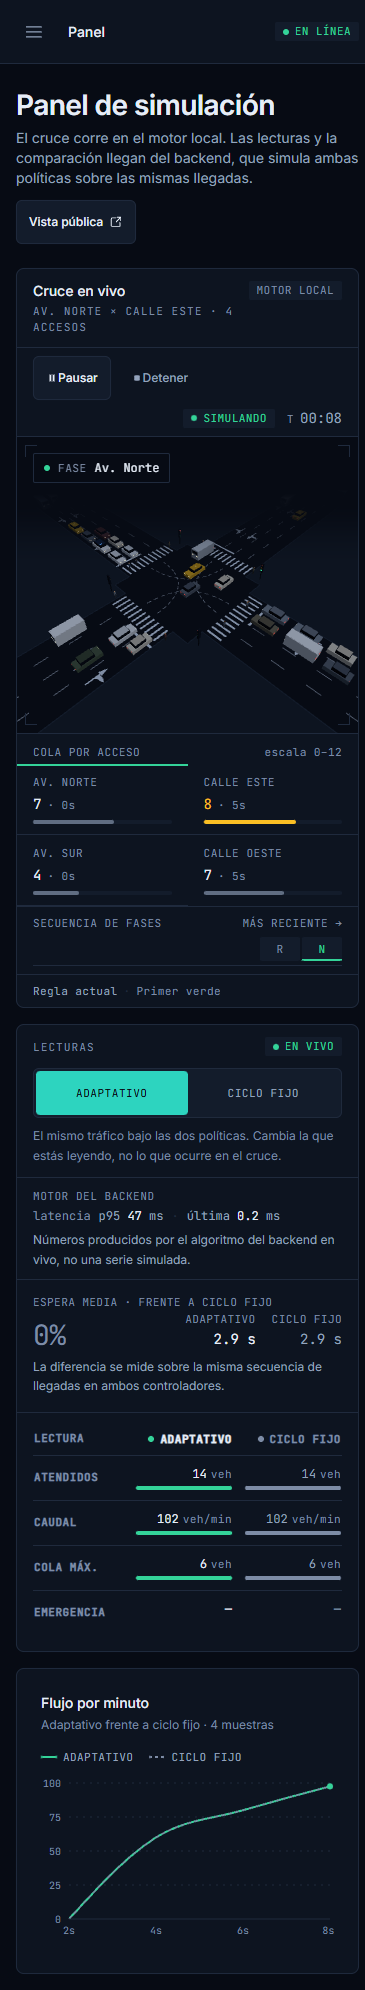
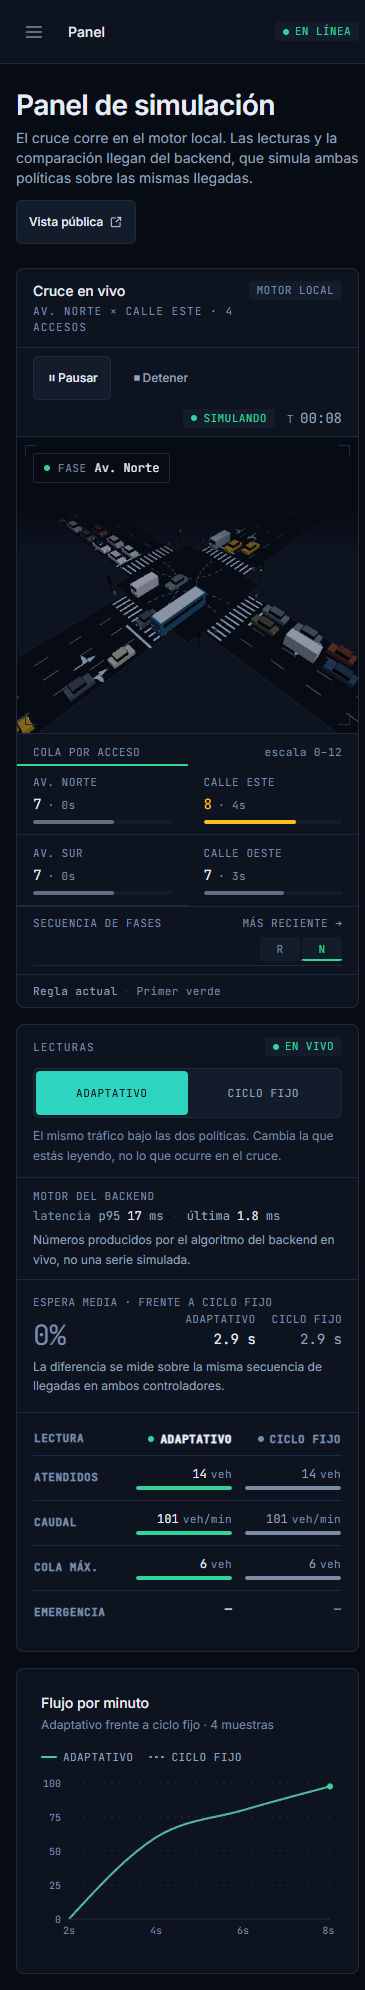
docs: record the live deployment and control-room sidebar
Update the roadmap, handoff and README with the Vercel/Railway URLs, the sidebar redesign and the production Socket.io trailing-slash fix. Refresh the dashboard screenshots against a real run.

diff --git a/PLAN.md b/PLAN.md
@@ -2,17 +2,17 @@
 ## Implementation Roadmap
 
 > Living document. Update sprint status as work progresses.
-> Current focus: **Phase 6 — Polish**, the visual pass, in progress. Phases 1–4
-> are closed and verified (frontend, backend, algorithm and realtime all
-> shipped; the dashboard reads the real streamed metrics). Sprint 1-H is closed.
-> The visual polish the user asked for has started — dotted turn guides and a
-> continental zebra (`70c9016`), a strategy comparison rack and a live latency
-> readout (`1c9375e`), a landing redesigned as a three-move argument (`5df96ac`),
-> and a **full dashboard rework** that moves transport onto the canvas, instruments
-> the junction with a phase tape and queue bank, and rebuilds the metrics column
-> around the wait comparison (`271b44a`, `7b64752`, `79cc111`; see the Phase 6
-> status block). Still open: the user's browser check at 375px/1440px, reduced
-> motion and keyboard.
+> Current focus: **Phase 6 — closed except the demo video.** Phases 1–6 are
+> closed and verified (frontend, backend, algorithm, realtime, persistence and
+> deploy all shipped). The console is live at
+> `https://urbansync-sim-frontend.vercel.app` against
+> `https://urbansync-sim-production.up.railway.app`. The visual polish includes
+> dotted turn guides and a continental zebra (`70c9016`), a strategy comparison
+> rack and a live latency readout (`1c9375e`), a landing redesigned as a
+> three-move argument (`5df96ac`), a full dashboard rework (`271b44a`, `7b64752`,
+> `79cc111`) and a **sidebar redesigned around a control-room mast** (`55e8f8e`;
+> see the Phase 6 status block). Still open: record the 2-minute demo and rotate
+> the Postgres password exposed during setup.
 
 ---
 
@@ -25,7 +25,7 @@
 | 3 | Simulation Algorithm | ✅ Complete | Adaptive logic running in backend |
 | 4 | Real-time Integration | ✅ Complete | Frontend ↔ Backend live via Socket.io |
 | 5 | Persistence + Reports | ✅ Complete | Runs stored per user, CSV/PDF exportable |
-| 6 | Polish + Deploy | 🟡 In progress | Visual polish started; deploy pending |
+| 6 | Polish + Deploy | 🟡 Complete | Live on Vercel + Railway; demo video pending |
 
 ### Sprint 1-A status — ✅ complete
 
@@ -1087,13 +1087,31 @@ recording would need the hub to keep the samples it currently streams past.
 
 **Goal:** Live URLs, documented, presentable to the professor.
 
-### Phase 6 status — ✅ polish closed; deployment configured, execution pending
+### Phase 6 status — ✅ closed; live on Vercel and Railway
 
-The **visual polish the user asked for** is closed, and the deploy configuration
-is now in the repository: `frontend/vercel.json`, `backend/railway.json`, and a
-`backend/Dockerfile` that migrates and seeds on boot. Creating the Vercel and
-Railway services, setting their secrets, and smoke-testing the public URLs are
-the only deploy steps left, and they need platform credentials.
+The **visual polish the user asked for** is closed and the project is deployed.
+`frontend/vercel.json`, `backend/railway.json` and a `backend/Dockerfile` that
+migrates and seeds on boot are in the repository; Railway runs the backend with
+its PostgreSQL service, and Vercel runs the Vite frontend with the Railway API
+as `VITE_API_URL`.
+
+**Live deployment (verified 2026-11-09):**
+
+- Frontend: `https://urbansync-sim-frontend.vercel.app` — returns 200 and serves
+  the sidebar redesign (`55e8f8e`).
+- Backend: `https://urbansync-sim-production.up.railway.app/health` —
+  `{"status":"ok","db":"ok"}`.
+- CORS: `CORS_ORIGINS` uses the Vercel origin; Railway's Vercel preview regex
+  remains in `app/core/config.py`.
+- Socket.io: production was returning `44//simulation,"Unable to connect"` because
+  the configured `VITE_API_URL` ended in `/` and the client joined it to
+  `//simulation`. `5bf98cd` normalises the base URL; the deployed console now
+  shows `EN LÍNEA`/`EN VIVO` and receives real ticks. The full flow was verified
+  on 2026-11-09.
+
+**Still open:** recording the 2-minute demo and rotating the Postgres password
+that was pasted into the setup chat. The rotation must update Railway's
+`DATABASE_URL` before the next deploy is trusted.
 
 The first polish slice is **committed** (`70c9016`). It is a renderer-only change
 — `core/` is untouched, so no engine gate had to be re-run.
@@ -1217,6 +1235,24 @@ at 375px while the static desktop column is untouched. Verified headlessly at
 1440px and 375px (desktop/mobile, idle/running/paused): no overflow, no console
 errors, and a focused link inside the closed drawer is refused.
 
+**Sidebar redesign (`55e8f8e`):** the navigation no longer reads as a generic pill
+list. The column is 272px wide, with a two-line wordmark (Inter product name plus
+a mono teal `SIM` and a `Control de cruce` method line), a `CONSOLA` group label,
+and three destinations on a 1px mast. Each icon sits in a 28px circular node on
+that line; the active destination carries the raised row, the teal node border and
+icon, and Primary Text, so the state survives a colour-only failure. The mast
+continues past the last destination into a system plate that states
+`Sin modelo entrenado`, a four-segment rule meter and `Cuatro reglas rastreables`.
+`DESIGN.md` §Navigation and the sticky-sidebar note were updated to match.
+
+Verified: `npm run build`, `typecheck` and `oxlint` clear (only the pre-existing
+`scripts/` warnings), `prettier --check` clean on the changed file, and
+`impeccable detect` returns `[]`. Headless captures at 1440px, 375px and 320px show
+no horizontal overflow or console errors; the closed drawer keeps `inert`,
+`aria-hidden` and a refused focus target, and the open drawer keeps the 44px
+touch target. `docs/screenshots/dashboard.png` and `dashboard-mobile.png` were
+refreshed against the local SQLite backend.
+
 **Deployment support (`622928a`):** the Docker CMD runs `alembic upgrade head`
 and the idempotent seed on Railway's `$PORT`; `railway.json` declares the
 `/health` check and restart policy; `vercel.json` resolves the SPA fallback and
@@ -1226,7 +1262,8 @@ the asyncpg driver, and `create_app` now actually refuses the placeholder
 added (100 backend tests in green).
 
 **Frontend polish (requested, now closed):** the dashboard has been rebuilt as a
-console. Remaining work in this phase:
+console and the sidebar now carries the control-room mast. Remaining work in this
+phase:
 
 - [x] **Dashboard rework** — transport on the canvas bezel (`TransportControls`),
       phase tape + queue bank + idle chip instrumented on the canvas, metrics
@@ -1245,10 +1282,12 @@ console. Remaining work in this phase:
 - [x] Final `impeccable detect` pass — `[]`; headless capture and focus probes clean
 - [x] Environment variables documented in `.env.example` (SQLite and platform keys)
 - [x] `README.md` complete: setup, usage, routes, deployment, screenshots
-- [ ] Deploy frontend → Vercel (config ready in `frontend/vercel.json`; needs account)
-- [ ] Deploy backend → Railway (config ready in `backend/railway.json`; needs account)
-- [ ] Set production env vars on both platforms (`VITE_API_URL`, `DATABASE_URL`, `SECRET_KEY`, `CORS_ORIGINS`)
-- [ ] Smoke test production URLs
+- [x] Deploy frontend → Vercel — `https://urbansync-sim-frontend.vercel.app`
+- [x] Deploy backend → Railway — `https://urbansync-sim-production.up.railway.app`
+- [x] Set production env vars on both platforms (`VITE_API_URL`, `DATABASE_URL`, `SECRET_KEY`, `CORS_ORIGINS`)
+- [x] Smoke test production URLs — frontend 200, backend `/health` ok, live Socket.io verified
+- [x] Sidebar redesign — control-room mast (`55e8f8e`; see the Phase 6 status block)
+- [ ] Rotate the Postgres password exposed during setup and update Railway's `DATABASE_URL`
 - [ ] Record a 2-minute demo video showing the EVP module in action
 
 ---

diff --git a/CONTINUIDAD.md b/CONTINUIDAD.md
@@ -11,6 +11,34 @@
 
 ---
 
+## Actualización 2026-11-09 — deploy cerrado y sidebar rediseñado
+
+- **Producción está viva y verificada.** Frontend:
+  `https://urbansync-sim-frontend.vercel.app` (200; sirve el sidebar nuevo).
+  Backend: `https://urbansync-sim-production.up.railway.app/health` →
+  `{"status":"ok","db":"ok"}`. Verificado el 2026-11-09: login, inicio de corrida,
+  `EN LÍNEA`/`EN VIVO` y ticks reales del backend.
+- **Socket.io en producción (`5bf98cd`):** `VITE_API_URL` terminaba en `/`, así
+  que el namespace quedaba `//simulation` y el backend respondía
+  `44//simulation,"Unable to connect"`. `API_BASE_URL` ahora recorta los slashes
+  finales; el frontend desplegado conecta con el namespace `/simulation`.
+- **Sidebar (`55e8f8e`):** marca en dos líneas, label `CONSOLA`, destinos sobre un
+  mástil de 1px con nodos circulares, estado activo en tres canales y placa de
+  sistema con medidor de cuatro reglas. `DESIGN.md` §Navigation actualizado.
+- **Capturas:** `docs/screenshots/dashboard.png` y `dashboard-mobile.png`
+  regeneradas contra el backend local en SQLite con una corrida real.
+- **Verificación:** `npm run build`, `typecheck`, `oxlint` (solo warnings
+  preexistentes de `scripts/`), `prettier --check` limpio en el archivo tocado e
+  `impeccable detect` → `[]`. Capturas headless 1440/375/320 sin overflow ni
+  errores de consola; drawer cerrado con `inert`/`aria-hidden` y foco rechazado.
+- **Pendiente real:** grabar el video demo de 2 minutos y **rotar la contraseña
+  de Postgres** expuesta durante el setup, actualizando `DATABASE_URL` en
+  Railway. El resto de la Fase 6 está cerrado.
+
+La sección histórica siguiente queda como registro de cómo se llegó hasta aquí.
+
+---
+
 ## 0. ESTADO EN UNA LÍNEA
 
 Motor **cerrado**: **0 solapamientos en 8 semillas a ambas demandas**, todos los

diff --git a/README.md b/README.md
@@ -9,10 +9,12 @@ políticas sobre la misma secuencia de llegadas y transmite las lecturas por
 Socket.io. La interfaz está en español; el código, los identificadores y los
 commits, en inglés.
 
-**Estado:** Fases 1–5 cerradas (frontend, backend, algoritmo, tiempo real y
-persistencia/informes). De la Fase 6 queda el pulido visual restante y ejecutar
-el despliegue; la configuración para Vercel y Railway ya está en el repositorio.
-El detalle vive en [`PLAN.md`](PLAN.md) y [`CONTINUIDAD.md`](CONTINUIDAD.md).
+**Estado:** Fases 1–6 cerradas. El proyecto está desplegado y verificado; solo
+queda grabar el video demo y rotar la contraseña de Postgres expuesta durante el
+setup. El detalle vive en [`PLAN.md`](PLAN.md) y [`CONTINUIDAD.md`](CONTINUIDAD.md).
+
+**Demo en vivo:** [frontend](https://urbansync-sim-frontend.vercel.app) ·
+[health del backend](https://urbansync-sim-production.up.railway.app/health).
 
 ## Capturas
 
